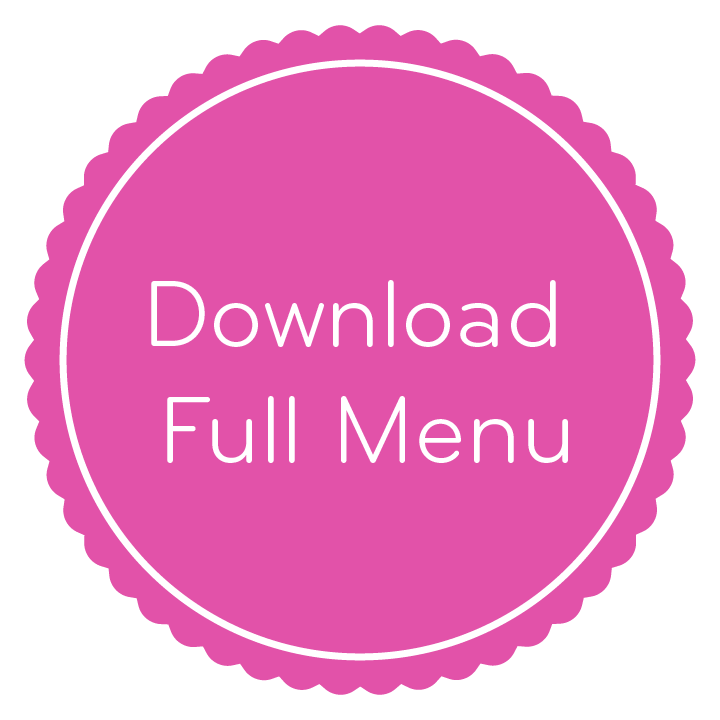
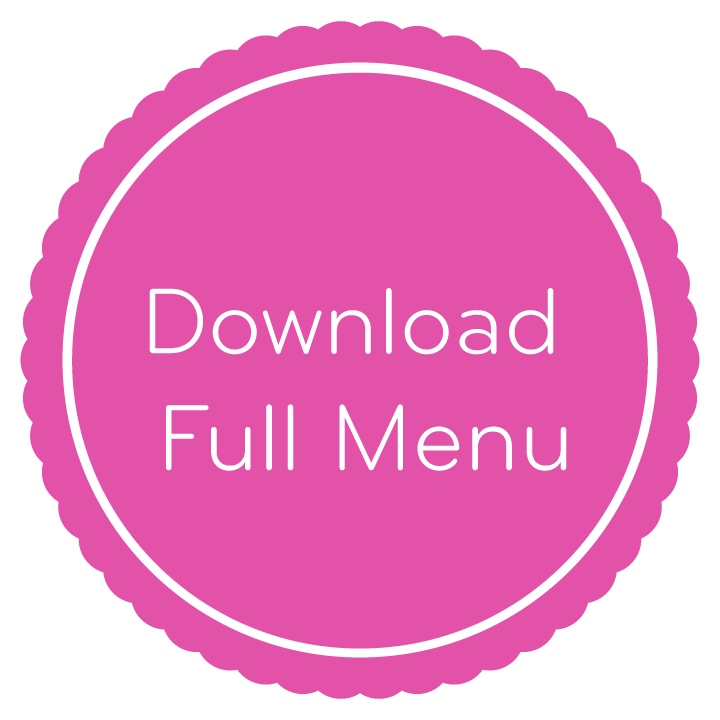
changed buttons

diff --git a/art128/tacokellz/index.html b/art128/tacokellz/index.html
@@ -89,11 +89,12 @@
 
             <h2>And so much more!</h2>
             <p>Download our full menu below to see desserts and catering options.</p>
-            <div class="downloadbutton">
-              <a href="#"> <img src="img/pinkbutton.png" alt="Download full menu" height="150px" width="150px"></a>
+
+<!-- Downloading Full Menu Button Area -->
+            <div class="testbutton">
+             <a href="#"> Download Full Menu</a>
             </div>
             
-            <!-- <a href="#" class="fullmenu-button">Download Full Menu</a> -->
           </div>
         </div>
 
@@ -135,18 +136,22 @@
 
     <section id="merch">
         <div class="container">
-          <div class="merchlogo">
+          <!-- <div class="merchlogo">
           <img src="img/tacokellzlogo.png" alt="TacoKellz Logo" width="150px" height="150px">
-        </div>
+        </div> -->
 
         <h2>Shop Our Merch</h2>
 
         <div class="row">
           <div class="one-half column">
-            <img src="img/sheatethat.png" alt="She Ate That T-shirt" width="800" height="800" class="shirt">
+            <a href="#">
+              <img src="img/sheatethat.png" alt="She Ate That T-shirt" width="800" height="800" class="shirt">
+              <h4 class="text-centered"> "She Ate That Up” T-shirt</h4>
+            </a>
           </div>
           <div class="one-half column">
             <img src="img/babysticker.jpg" alt="Baby Sticker" width="800" height="800" class="sticker">
+            <h4 class="text-centered"> “Taco Time Baby” Sticker</h4>
           </div>
         </div>
 

diff --git a/art128/tacokellz/css/style.css b/art128/tacokellz/css/style.css
@@ -103,7 +103,7 @@ P {
 /* LINKS */
 
 a {
-  color: rgba(34, 136, 0, 0.8);
+  color: #F4E9D8;
   text-decoration: none;
 
 }
@@ -888,15 +888,30 @@ ul {
   font-style: italic;
   font-size: 1em;
 }
-
-.downloadbutton:hover {
-  opacity: 70%;
+  
+.testbutton {
+ background: url("../img/pinkbutton.png");
+ height: 150px;
+ width: 150px;
+ background-size: 100%;
+ display: flex;
+ justify-content: flex-end;
+ border: 1px solid red;
 }
-.downloadbutton {
-  text-align: right;
-  max-width: 400px;
 
+.testbutton:hover {
+  background: url("../img/pinktransparent-button.png");
+  height: 150px;
+  width: 150px;
+  background-size: 100%;
 }
+.testbutton a {
+  color: transparent
+}
+
+
+
+
 
 .column.one-half p {
   max-width: 25ch;
@@ -949,16 +964,23 @@ color: #F3A33A;
 /* MERCH SECTION */
 #merch {
 background-color: #F3A33A;
-color: #F4E9D8;
+ color: #F4E9D8;
 }
 
 #merch h2 {
 text-align: center;
 }
 
-.merchlogo  {
+.merchlogo {
 border: 2px solid red;
 text-align: center;
 position: absolute;
 
+}
+#merch img {
+  border-radius: 50%;
+  text-align: center;
+}
+#merch img:hover {
+  box-shadow: 0 0 10px 0 rgba(0, 0, 0, 0.406);
 }
